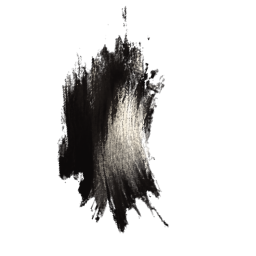
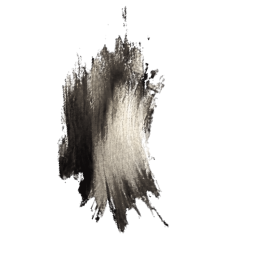
Cue pacing: trigger cues overlay the stackable deaths, damage and tokens already playing and hold only what follows for their beat (a projectile still waits so the flash sits before the shot), so combos keep their pace; a follower's own On Death flash lands a moment into the lethal hit. Trinkets tha

Changed region(s): [[0.2188, 0.1562, 0.625, 0.9062], [0.25, 0.6562, 0.3125, 0.6875]]

diff --git a/Assets/Scripts/Cues/TriggerCue.cs b/Assets/Scripts/Cues/TriggerCue.cs
@@ -15,6 +15,9 @@ using UnityEngine;
 /// </summary>
 public class TriggerCue
 {
+    /// <summary>Turns trigger cues off (CueTestBench uses it to time combos with and without them). Never set in game.</summary>
+    public static bool Disabled;
+
     public const string StartOfTurn = "StartOfTurn";
     public const string EndOfTurn = "EndOfTurn";
 
@@ -54,10 +57,16 @@ public class TriggerCue
 
     public void Open()
     {
+        if (Disabled)
+        {
+            Placed = true;
+            return;
+        }
         if (!PlacesOnOpen || Queue == null)
             return;
 
-        animation = new TriggerCueAnimation(this);
+        // Overlays the lethal damage animation, flashing a moment into it, and holds the death animation back.
+        animation = new TriggerCueAnimation(this) { Stackable = true, PreDelay = TriggerCueAnimation.OwnDeathDelay };
         Queue.AddAnimationActionToQueue(animation);
         Placed = true;
         placedOnOpen = true;
@@ -85,14 +94,21 @@ public class TriggerCue
         Acted = true;
     }
 
-    /// <summary>Called by AnimationHandler when one of this cue's actions queues its animations.</summary>
-    public AnimationAction TakeAnimationForPlacement()
+    /// <summary>
+    /// Called by AnimationHandler when one of this cue's actions queues its animations (firstResult: the first of
+    /// them, or null). The cue overlays running stackable animations (deaths, damage numbers, tokens) so combos keep
+    /// their pace, unless its result is itself a blocking animation (a projectile), when it waits so the flash sits
+    /// right before the shot.
+    /// </summary>
+    public AnimationAction TakeAnimationForPlacement(AnimationAction firstResult)
     {
         if (Placed)
             return null;
 
         Placed = true;
-        return animation ??= new TriggerCueAnimation(this);
+        animation ??= new TriggerCueAnimation(this);
+        animation.Stackable = firstResult == null || firstResult.Stackable;
+        return animation;
     }
 
     /// <summary>Scope closed. Returns true when the cue still has to be placed after its causing action.</summary>
@@ -133,7 +149,7 @@ public class TriggerCue
             return;
 
         Placed = true;
-        animation ??= new TriggerCueAnimation(this);
+        animation ??= new TriggerCueAnimation(this) { Stackable = true };
         Queue.AddAnimationActionToQueue(animation);
     }
 }
@@ -143,15 +159,29 @@ public class TriggerCueAnimation : AnimationAction
 {
     readonly TriggerCue cue;
 
+    /// <summary>A follower's own On Death cue waits this long into the lethal damage before flashing.</summary>
+    public const float OwnDeathDelay = 0.15f;
+    public float PreDelay;
+
     public TriggerCueAnimation(TriggerCue cue) : base(null)
     {
         this.cue = cue;
+        HoldsFollowing = true;
     }
 
     public override void Play(Action onFinish = null)
     {
         base.Play(onFinish);
 
+        float delay = PreDelay * (View.Instance != null && !View.Instance.IsHumansTurn ? 1.25f : 1f);
+        if (delay > 0f)
+            CuePlayer.Hold(delay, Fire);
+        else
+            Fire();
+    }
+
+    void Fire()
+    {
         CueDef def = cue.Def;
         int repeat = CuePlayer.Play(def.Sound);
 

diff --git a/Tools/VFX/build_stroke_sets.py b/Tools/VFX/build_stroke_sets.py
@@ -3,7 +3,7 @@
 Each water stroke's brightness (its blue channel) is mapped through a three-stop gradient, alpha kept, so the new sets
 keep the hand-painted bristle texture. Palette from Docs/StyleGuide.md:
     Blood  Blood offering red (#9E1B22) from a near-black clot to a wet highlight   (Hera's buff, Vengeance, Price Of...)
-    Ink    Kiln Black (#141110) with Bone (#E8DCC2) streaks: shades, curses, fear  (Erinyes, Haunt, Panic)
+    Ink    Kiln Black (#141110) roots into ash grey and Bone (#E8DCC2) streaks: shades, curses, fear (Erinyes, Haunt, Panic)
     Gold   Votive Gold (#D9B45A) from fired umber to pale gold                     (Twist of Fate, gold cues)
     python Tools/VFX/build_stroke_sets.py
 Output: Assets/Resources/Images/Particles/<Set>/<n>.png (import settings are copied from the water sprites' .meta by
@@ -22,7 +22,7 @@ PARTICLES = os.path.join(ROOT, "Assets", "Resources", "Images", "Particles")
 SETS = {
     #         shadow                 mid                    highlight
     "Blood": ((0.16, 0.01, 0.02), (0.62, 0.10, 0.13), (0.88, 0.30, 0.24)),
-    "Ink":   ((0.05, 0.04, 0.04), (0.14, 0.12, 0.11), (0.91, 0.86, 0.76)),
+    "Ink":   ((0.06, 0.05, 0.05), (0.32, 0.29, 0.26), (0.91, 0.86, 0.76)),
     "Gold":  ((0.36, 0.22, 0.07), (0.85, 0.71, 0.35), (1.00, 0.94, 0.74)),
 }
 
@@ -47,7 +47,7 @@ def main():
             lo, hi = np.percentile(lum[visible], 4), np.percentile(lum[visible], 99)
             t = np.clip((lum - lo) / max(hi - lo, 1e-3), 0, 1)
             if name == "Ink":
-                t = t ** 2.2  # mostly black, bone only in the brightest bristle streaks
+                t = t ** 1.25  # smoke: dark roots, ash-grey body, bone in the brightest bristle streaks
             rgb = gradient(t, stops)
             out = np.concatenate([rgb, im[..., 3:4]], axis=2)
             target = os.path.join(out_dir, os.path.basename(path))

diff --git a/Assets/Scripts/Actions/View/AnimationHandler.cs b/Assets/Scripts/Actions/View/AnimationHandler.cs
@@ -62,6 +62,10 @@ public class AnimationHandler
             return;
         }
 
+        // An animation that holds what follows (a trigger cue's beat) keeps everything after it waiting, even
+        // stackable animations; anything already playing carries on.
+        if (holdingAnimation != null) return;
+
         // If a non-stackable animation is already playing and our next animation isn't stackable, early out
         bool nextActionIsStackable = AnimationActionQueue[0].Stackable;
         if (IsAnimating && (!nextActionIsStackable || !CurrentAnimationIsStackable)) return;
@@ -78,8 +82,20 @@ public class AnimationHandler
         }
 
         //Debug.LogError("Play: " + newAction.GetType().Name);
+        if (newAction.HoldsFollowing)
+        {
+            holdingAnimation = newAction;
+            newAction.Play(() =>
+            {
+                if (holdingAnimation == newAction) holdingAnimation = null;
+                AnimationComplete();
+            });
+            return;
+        }
         newAction.Play(AnimationComplete);
     }
+
+    AnimationAction holdingAnimation;
     public void AnimationComplete()
     {
         //Debug.LogError("Animation Complete");
@@ -103,7 +119,7 @@ public class AnimationHandler
         List<AnimationAction> animationActions = gameAction.GetAnimationActions();
         CueLibrary.DecorateAnimations(gameAction, animationActions);
         // A triggered ability's flash and sound play just before its first visible result.
-        AnimationAction cueAnimation = gameAction.Cue?.TakeAnimationForPlacement();
+        AnimationAction cueAnimation = gameAction.Cue?.TakeAnimationForPlacement(animationActions.Find(a => a != null));
         if (cueAnimation != null)
         {
             // Plays first for this action, so it carries the action's trinket flare (MarkSourceTriggered).

diff --git a/Assets/Scripts/Actions/View/AnimationAction.cs b/Assets/Scripts/Actions/View/AnimationAction.cs
@@ -6,6 +6,8 @@ using UnityEngine;
 public abstract class AnimationAction
 {
     public bool Stackable = false;
+    /// <summary>Nothing queued after this starts until it finishes, even stackable animations (a trigger cue's beat).</summary>
+    public bool HoldsFollowing = false;
     public bool MarkSourceTriggered = false;
     public GameAction GameAction;
     public Action OnFinish;
@@ -50,6 +52,28 @@ public class MarkSourceTriggeredAnimation : AnimationAction
     public override void Play(Action onFinish = null)
     {
         base.Play(onFinish);
+        CallCallback();
+    }
+}
+
+// Flares a trinket or ritual buff that acted without an action of its own (StaticPlayerEffect.MarkTriggered), in turn
+// with the other animations. Instant and stackable, so it never holds the queue.
+public class EffectFlareAnimation : AnimationAction
+{
+    readonly StaticPlayerEffect effect;
+    readonly Action<StaticPlayerEffect> flare;
+
+    public EffectFlareAnimation(StaticPlayerEffect effect, Action<StaticPlayerEffect> flare) : base(null)
+    {
+        this.effect = effect;
+        this.flare = flare;
+        Stackable = true;
+    }
+
+    public override void Play(Action onFinish = null)
+    {
+        base.Play(onFinish);
+        flare?.Invoke(effect);
         CallCallback();
     }
 }

diff --git a/Assets/Scripts/EffectSystem/PlayerEffectDef.cs b/Assets/Scripts/EffectSystem/PlayerEffectDef.cs
@@ -16,6 +16,11 @@ public abstract class PlayerEffect
 public abstract class StaticPlayerEffect : PlayerEffect
 {
     public static event Action<StaticPlayerEffect> Triggered;
+    /// <summary>
+    /// MarkTriggered (no action of its own): the view queues the flare in the animation queue so it plays in turn
+    /// with everything else (on the AI's turn every action resolves before its animations). Falls back to Triggered.
+    /// </summary>
+    public static event Action<StaticPlayerEffect> TriggeredWithoutAction;
 
     public Player Owner;
     public Player TargetPlayer;
@@ -32,7 +37,10 @@ public abstract class StaticPlayerEffect : PlayerEffect
         PlayHistoryHandler history = PlayHistoryHandler.For(Owner.GameState);
         history?.AddTriggeredRecord(history.GetEffectRecord(this));
 
-        Triggered?.Invoke(this);
+        if (TriggeredWithoutAction != null)
+            TriggeredWithoutAction.Invoke(this);
+        else
+            Triggered?.Invoke(this);
     }
 
     /// <summary>Flares the icon only: an action with this SourceEffect is animating (its history is already recorded).</summary>

diff --git a/Assets/Scripts/Cues/CueLibrary.cs b/Assets/Scripts/Cues/CueLibrary.cs
@@ -127,7 +127,7 @@ public static class CueLibrary
         { nameof(CyclopsEyeTrinketEffectDef), Empower },
         { nameof(PansFluteTrinketEffectDef), Panpipe },
         { nameof(HermesSandalsTrinketEffectDef), Swift },
-        { nameof(TheAegisTrinketEffectDef), Ward },
+        { nameof(TheAegisTrinketEffectDef), "" },          // a passive aura: flares, no sound
         { nameof(RodOfAsclepiusTrinketEffectDef), Revive },
         { nameof(HydrasScaleTrinketEffectDef), Summon },
         { nameof(TunicOfNessusTrinketEffectDef), Flame },
@@ -301,7 +301,9 @@ public static class CueLibrary
         if (lastEffectSound.Count > 64)
             lastEffectSound.Clear();
 
-        CuePlayer.Play(EffectSound(effect));
+        string sound = EffectSound(effect);
+        if (!string.IsNullOrEmpty(sound))
+            CuePlayer.Play(sound);
     }
 
     // ------------------------------------------------------------------------------------- coverage ---

diff --git a/Assets/Scripts/View/View.cs b/Assets/Scripts/View/View.cs
@@ -85,11 +85,24 @@ public class View : MonoBehaviour
     void OnEnable()
     {
         StaticPlayerEffect.Triggered += OnPlayerEffectTriggered;
+        StaticPlayerEffect.TriggeredWithoutAction += QueuePlayerEffectTriggered;
     }
 
     void OnDisable()
     {
         StaticPlayerEffect.Triggered -= OnPlayerEffectTriggered;
+        StaticPlayerEffect.TriggeredWithoutAction -= QueuePlayerEffectTriggered;
+    }
+
+    // An effect acted without an action (MarkTriggered): flare it in turn with the rest of the animations.
+    void QueuePlayerEffectTriggered(StaticPlayerEffect effect)
+    {
+        if (AnimationHandler == null)
+        {
+            OnPlayerEffectTriggered(effect);
+            return;
+        }
+        AnimationHandler.AddAnimationActionToQueue(new EffectFlareAnimation(effect, OnPlayerEffectTriggered));
     }
 
     void OnPlayerEffectTriggered(StaticPlayerEffect effect)

diff --git a/Assets/Scripts/Editor/CueTestBench.cs b/Assets/Scripts/Editor/CueTestBench.cs
@@ -148,6 +148,20 @@ public static class CueTestBench
 
     public static int QueueCount => View.Instance.AnimationHandler.AnimationActionQueue.Count;
 
+    /// <summary>Logs how long the animation queue takes to drain from now (game seconds), as "CueTestBench: drained in Xs".</summary>
+    public static void TimeUntilIdle(string label)
+    {
+        float start = Time.time;
+        void Check()
+        {
+            if (Idle)
+                Debug.Log("CueTestBench: " + label + " drained in " + (Time.time - start).ToString("0.00") + "s");
+            else
+                CuePlayer.Hold(0.05f, Check);
+        }
+        CuePlayer.Hold(0.05f, Check);
+    }
+
     /// <summary>True when no animation is playing or queued.</summary>
     public static bool Idle => !AnimationHandler.IsAnimating && View.Instance.AnimationHandler.AnimationActionQueue.Count == 0;
 

diff --git a/Assets/Scripts/Cues/StrokeProjectile.cs b/Assets/Scripts/Cues/StrokeProjectile.cs
@@ -40,12 +40,12 @@ public class StrokeProjectileView : MonoBehaviour
     // Head
     const int HeadStrokes = 3;
     // Heads sit this far either side of the path (authoring units), so the head reads as a glob, not a line.
-    const float HeadSpread = 0.12f;
-    const float HeadScale = 0.45f;
+    const float HeadSpread = 0.16f;
+    const float HeadScale = 0.7f;
     // Trail
     const float TrailSpacing = 0.35f;
-    const float TrailScaleMin = 0.24f;
-    const float TrailScaleMax = 0.36f;
+    const float TrailScaleMin = 0.34f;
+    const float TrailScaleMax = 0.5f;
     const float TrailPaint = 0.04f;
     const float TrailHold = 0.05f;
     const float TrailWipe = 0.3f;

diff --git a/Assets/Scripts/Cues/CLAUDE.md b/Assets/Scripts/Cues/CLAUDE.md
@@ -9,14 +9,15 @@ Presentation only: nothing here changes game state, and none of it runs in AI si
 - A cue whose ability did nothing never plays. Abilities that store a reward for later (Oracle, Cassandra) call `ActionHandler.MarkTriggerActed()`.
 - **Placement** (the order is what makes combos readable): just before the first animation of its first action (`AnimationHandler.AddGameActionToQueue` → `TakeAnimationForPlacement`). If no action animates, once they have all run; if it only `MarkTriggerActed`, right after the action that caused it. A follower's **own On Death** cue is queued the moment it fires, so it lands after the lethal damage and before the death animation (developer's rule). Via-ally On Death abilities (Keres, Charon, Melpomene) play after the neighbour's death.
 - `AddAction(action, true, true)` is *front of queue*, not forced evaluation.
-- `TriggerCueAnimation`: plays the cue sound (`CuePlayer`), flashes the source card in the `HighlightPalette.Triggered` preset (votive gold, `CardHighlightEffect.Flare(preset, duration)`) and pulses its `CardHolder` (`TriggerFlash`), then holds the queue for a short beat (`CuePlayer.Beat`, non-stackable). Dying sources hold until the pulse ends so the death animation gets a clean `CardHolder`.
+- `TriggerCueAnimation`: plays the cue sound (`CuePlayer`), flashes the source card in the `HighlightPalette.Triggered` preset (votive gold, `CardHighlightEffect.Flare(preset, duration)`) and pulses its `CardHolder` (`TriggerFlash`), then holds for a short beat (`CuePlayer.Beat`). Dying sources hold until the pulse ends so the death animation gets a clean `CardHolder`.
+- **Pacing:** deaths, damage numbers and offering tokens are stackable and overlap; a non-stackable cue between them would serialize whole death animations. So cues are stackable (they start alongside what is already playing) but `HoldsFollowing` (nothing queued after them starts until their beat ends; `AnimationHandler.holdingAnimation`). They are non-stackable only when their result is (a projectile), so the flash sits right before the shot. A follower's own On Death cue overlays the lethal damage and flashes `OwnDeathDelay` into it. Measured: a Lightning chain with ten triggers drains in 15.3 s vs 12.7 s with `TriggerCue.Disabled` (`CueTestBench.TimeUntilIdle`).
 - The flare runs on **unscaled** time, so it won't show when filming at a slow `Time.timeScale`; film flashes at 1.
 
 ## What plays (`CueLibrary`, `SpellCues`)
 
 - One table, keyed by class name. Follower abilities resolve: effect def (`LifeSiphonEffectDef` → Siphon) → the trinket/buff behind an action's `SourceEffect` → card (`"Card.Trigger"` then `"Card"`) → a **family inferred from the actions** (`InferFamily`: damage → Strike, gold → Gold, summon → Summon, stats ± → Empower/Weaken, draw → Draw...). New content works without an entry.
 - Projectiles for abilities and buffs are set view side in `CueLibrary.DecorateForView` (damage) / `DecorateAnimations` (Erinyes' life loss), not in content code. Siren water, Chimera fire, Erinyes ink, Hera Major blood, Tunic of Nessus fire.
-- Trinkets and ritual buffs: `View.OnPlayerEffectTriggered` → `CueLibrary.PlayEffectCue` (once per 0.3 s per effect). Repeatable ritual buffs need their actions' `SourceEffect = this` to flare and sound (Demeter, Hermes, Hera, Poseidon Majors set it).
+- Trinkets and ritual buffs: `View.OnPlayerEffectTriggered` → `CueLibrary.PlayEffectCue` (once per 0.3 s per effect). Effects that act without an action (`MarkTriggered`) raise `TriggeredWithoutAction`, which the view queues as an `EffectFlareAnimation` so the flare and sound happen in turn (not at logic time, before the AI's animations). Passive auras (The Aegis) flare silently (empty sound). Repeatable ritual buffs need their actions' `SourceEffect = this` to flare and sound (Demeter, Hermes, Hera, Poseidon Majors set it).
 - Spells: `PlaySpellAction.GetAnimationActions` → card arrives, `CastSoundAnimation`, VFX (`Spell.GetPlayVfx` wins over `SpellCues`), projectile (`GetThrowStyle` wins), Twist of Fate's buff reveal, wait, remove. DevKill is silent. Spells without an entry play `CastSpell`.
 - **Tools → Cues → Coverage Report** writes `Claude/Cues/CueCoverage.md`: every follower / spell / effect and what it resolves to, plus missing or unused sound files. Run it after adding content.
 
